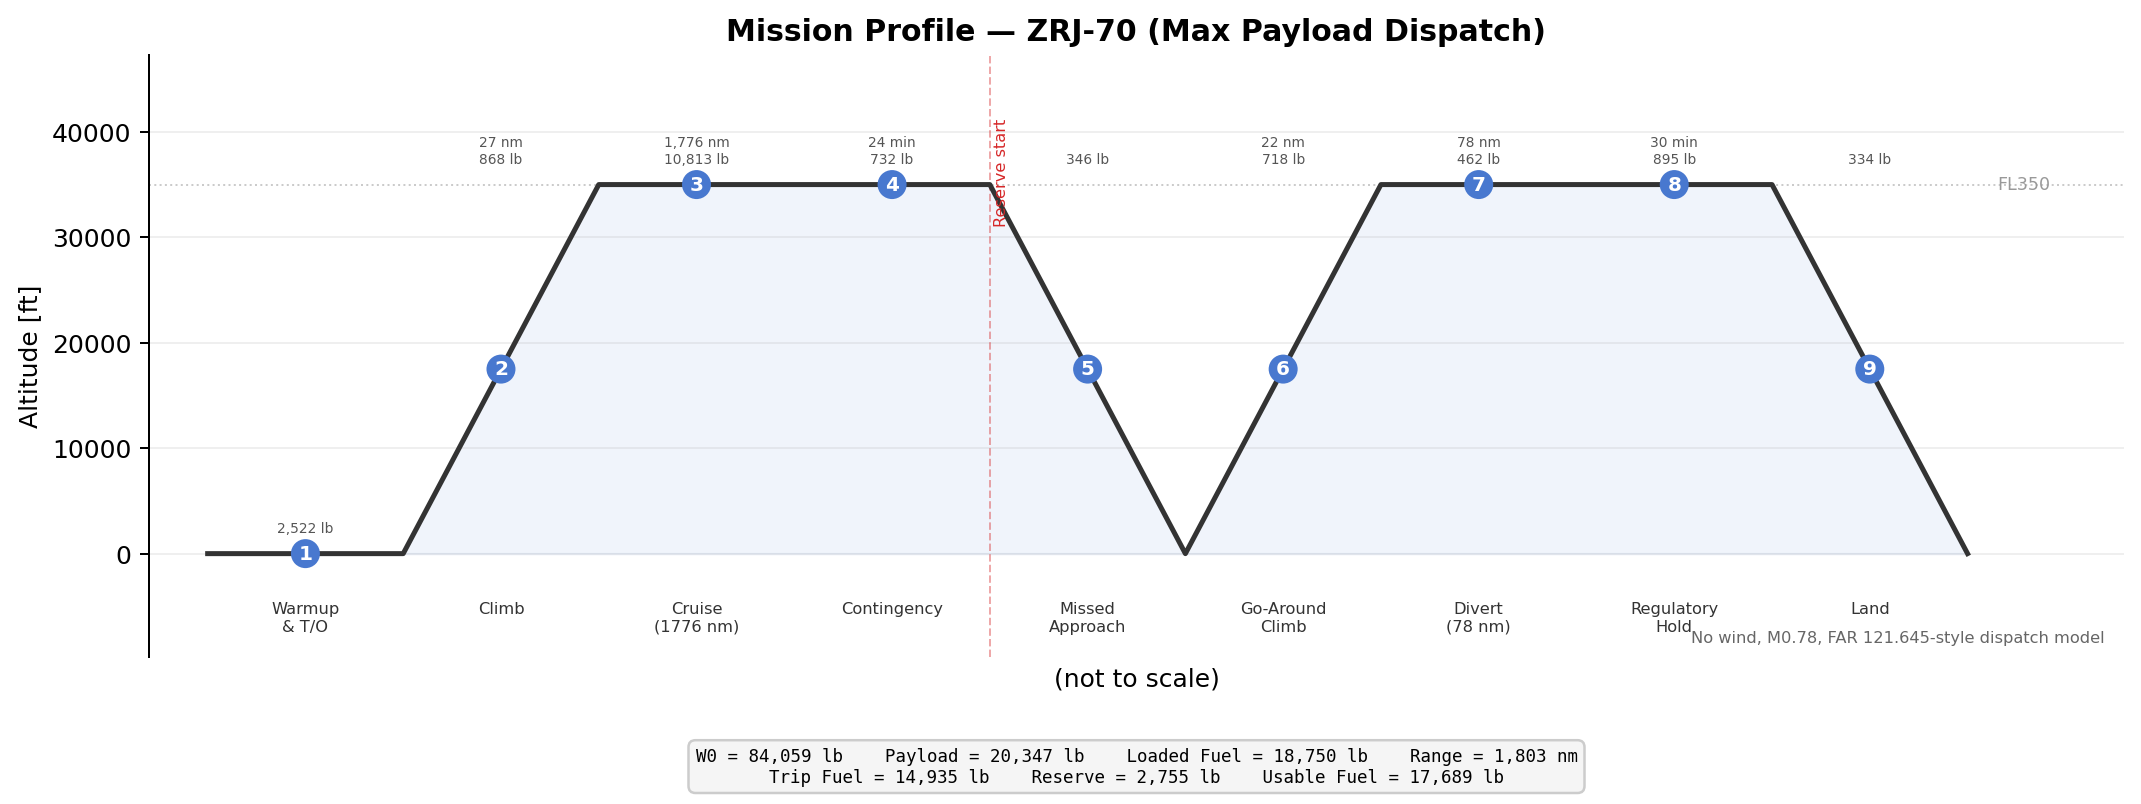
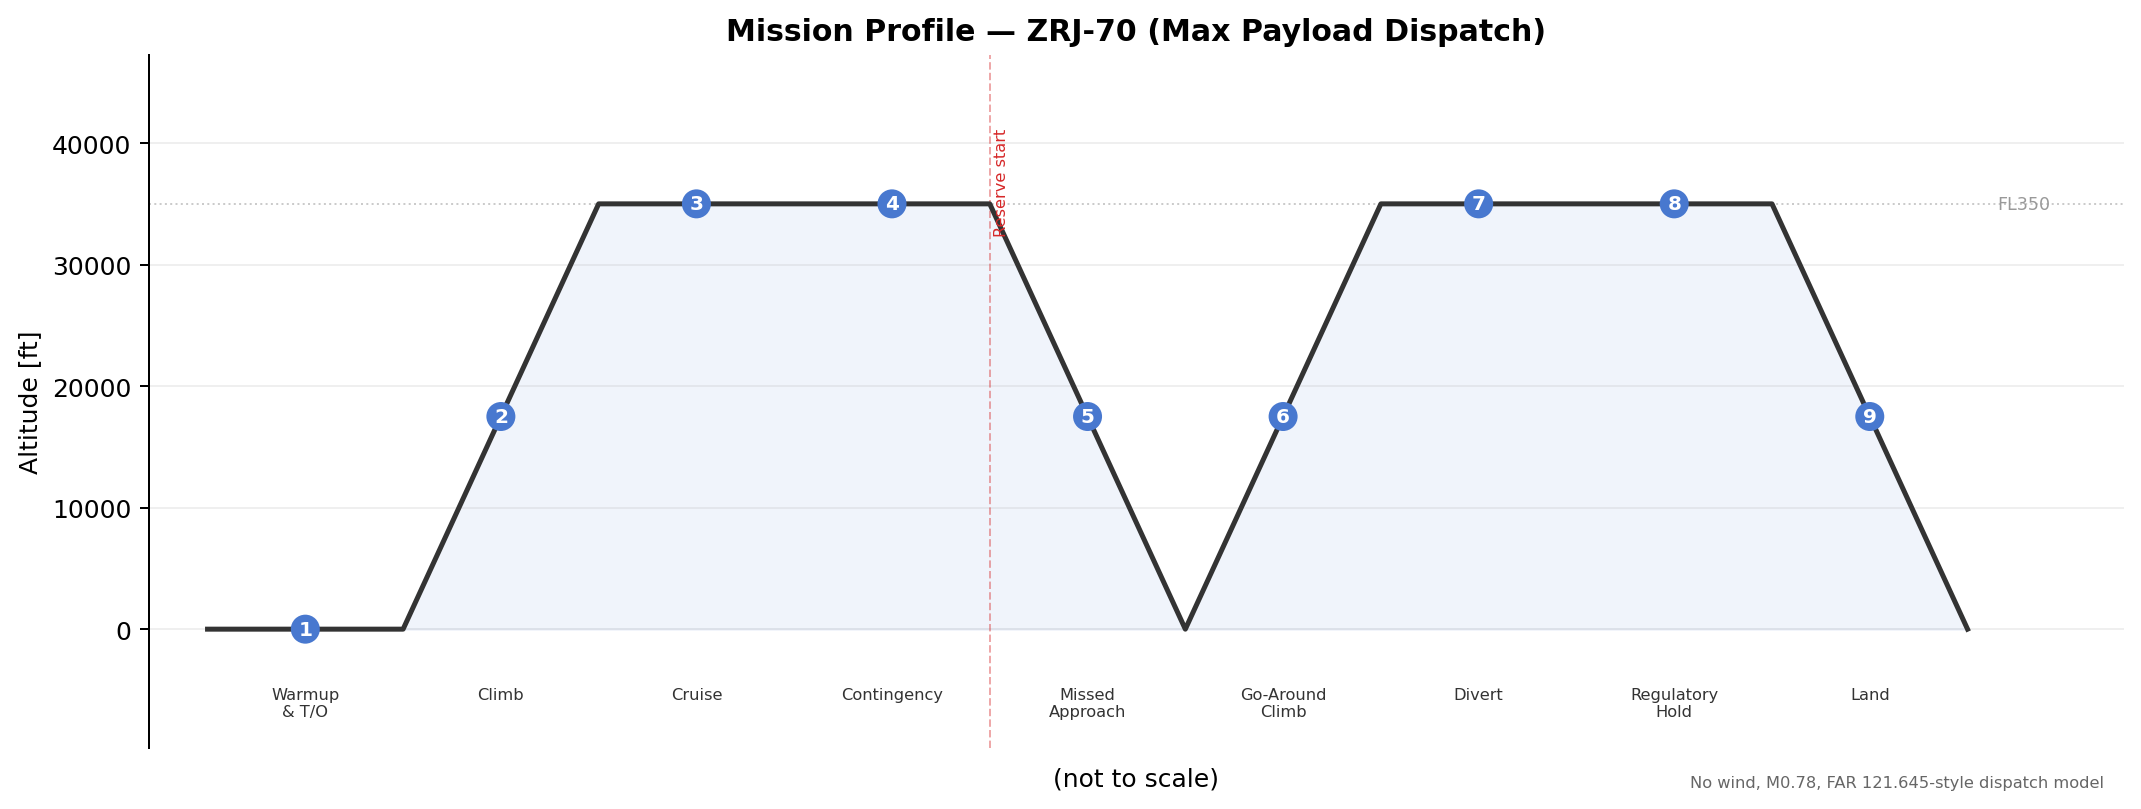
Refine mission profile chart annotations

diff --git a/scripts/generate_mission_profile.py b/scripts/generate_mission_profile.py
@@ -4,7 +4,9 @@ from __future__ import annotations
 import argparse
 import math
 import os
+import re
 from dataclasses import dataclass
+from functools import lru_cache
 from pathlib import Path
 
 os.environ.setdefault("MPLCONFIGDIR", "/tmp/matplotlib-rj-mission-map")
@@ -44,8 +46,29 @@ class ProfileResult:
     segments: list[Segment]
 
 
-def show_time_on_chart(seg: Segment) -> bool:
-    return seg.name.startswith("Contingency") or seg.name.startswith("Regulatory Hold")
+@dataclass(frozen=True)
+class ClimbOverride:
+    time_min: float
+    fuel_lb: float
+
+
+@lru_cache(maxsize=1)
+def load_flight_perf_climb_overrides() -> dict[str, ClimbOverride]:
+    analysis_path = Path(__file__).resolve().parents[2] / "rj-flight-performance" / "examples" / "output" / "ZRJ" / "analysis.txt"
+    if not analysis_path.exists():
+        return {}
+
+    text = analysis_path.read_text()
+    pattern = re.compile(
+        r"Aircraft\s+:\s+(ZRJ70|ZRJ100).*?"
+        r"Total time to climb\s+:\s+([0-9.]+)\s+min.*?"
+        r"Est\. fuel to climb\s+:\s+([0-9,]+)\s+lb",
+        re.DOTALL,
+    )
+    overrides: dict[str, ClimbOverride] = {}
+    for name, time_min, fuel_lb in pattern.findall(text):
+        overrides[name] = ClimbOverride(time_min=float(time_min), fuel_lb=float(fuel_lb.replace(",", "")))
+    return overrides
 
 
 def compute_cruise_segment(
@@ -124,6 +147,14 @@ def compute_climb_segment(
     name: str,
 ) -> Segment:
     fuel, dist, time_sec, w_end = model.compute_climb(ac, w_start)
+    if name == "Climb to FL350":
+        override = load_flight_perf_climb_overrides().get(ac.name)
+        if override is not None and fuel > 0:
+            fuel_scale = override.fuel_lb / fuel
+            fuel = override.fuel_lb
+            time_sec = override.time_min * 60.0
+            w_end = w_start - fuel
+            dist *= fuel_scale
     return Segment(
         name=name,
         w_start=w_start,
@@ -303,61 +334,47 @@ def plot_profile(result: ProfileResult, ac: model.AircraftConfig, output_path: P
         x_mid = (x_points[idx] + x_points[idx + 1]) / 2.0
         label = short_labels.get(seg.name, seg.name)
         if seg.name.startswith("Cruise to Destination"):
-            label = f"Cruise\n({seg.distance_nm:.0f} nm)"
+            label = "Cruise"
         elif seg.name.startswith("Divert to Alternate"):
-            label = f"Divert\n({seg.distance_nm:.0f} nm)"
+            label = "Divert"
         elif seg.name.startswith("Contingency"):
             label = "Contingency"
 
-        ax.text(x_mid, -cruise_alt * 0.13, label, ha="center", va="top", fontsize=6.5, color="#333333")
-
-    for idx, seg in enumerate(segs):
-        x_mid = (x_points[idx] + x_points[idx + 1]) / 2.0
-        a_top = max(alt_points[idx], alt_points[idx + 1])
-        info = []
-        if seg.distance_nm > 0:
-            info.append(f"{seg.distance_nm:,.0f} nm")
-        if show_time_on_chart(seg) and seg.time_min > 0:
-            info.append(f"{seg.time_min:,.0f} min")
-        info.append(f"{seg.fuel_burned:,.0f} lb")
         ax.text(
             x_mid,
-            a_top + cruise_alt * 0.05,
-            "\n".join(info),
+            -cruise_alt * 0.135,
+            label,
             ha="center",
-            va="bottom",
-            fontsize=5.5,
-            color="#555555",
-            linespacing=1.25,
+            va="top",
+            fontsize=6.5,
+            color="#333333",
         )
-
-    summary = (
-        f"W0 = {result.w0:,.0f} lb    "
-        f"Payload = {result.payload_lb:,.0f} lb    "
-        f"Loaded Fuel = {result.loaded_fuel_lb:,.0f} lb    "
-        f"Range = {result.total_range_nm:,.0f} nm"
-    )
-    footer = (
-        f"Trip Fuel = {result.trip_fuel_lb:,.0f} lb    "
-        f"Reserve = {result.reserve_fuel_lb:,.0f} lb    "
-        f"Usable Fuel = {result.usable_fuel_lb:,.0f} lb"
-    )
-    ax.text(
-        0.5,
-        -0.15,
-        f"{summary}\n{footer}",
-        transform=ax.transAxes,
-        fontsize=7,
-        va="top",
-        ha="center",
-        family="monospace",
-        bbox={"boxstyle": "round,pad=0.4", "fc": "#f5f5f5", "ec": "#cccccc"},
-    )
 
     ax.axhline(cruise_alt, color="#999999", linestyle=":", linewidth=0.8, alpha=0.5)
     ax.text(x_points[-1] + 0.15, cruise_alt, f"FL{int(cruise_alt / 100)}", fontsize=7, va="center", color="#999999")
     ax.axvline(4.0, color="#d62728", linestyle="--", linewidth=0.8, alpha=0.4)
-    ax.text(4.02, cruise_alt * 1.18, "Reserve start", fontsize=6.5, color="#d62728", rotation=90, va="top")
+    ax.text(
+        4.02,
+        cruise_alt * 1.18,
+        "Reserve start",
+        fontsize=6.5,
+        color="#d62728",
+        rotation=90,
+        va="top",
+    )
+
+    wind_label = "No wind" if abs(wind_kts) < 1e-9 else f"Wind {wind_kts:+.0f} kt"
+    ax.text(
+        0.99,
+        -0.06,
+        f"{wind_label}, M{ac.cruise_mach:.2f}, FAR 121.645-style dispatch model",
+        transform=ax.transAxes,
+        ha="right",
+        va="bottom",
+        fontsize=6.5,
+        color="#666666",
+        clip_on=False,
+    )
 
     ax.set_xlim(-0.3, x_points[-1] + 0.8)
     ax.set_ylim(-cruise_alt * 0.28, cruise_alt * 1.35)
@@ -369,18 +386,6 @@ def plot_profile(result: ProfileResult, ac: model.AircraftConfig, output_path: P
     ax.spines["top"].set_visible(False)
     ax.spines["right"].set_visible(False)
     ax.spines["bottom"].set_visible(False)
-
-    wind_label = "No wind" if abs(wind_kts) < 1e-9 else f"Wind {wind_kts:+.0f} kt"
-    ax.text(
-        0.99,
-        0.02,
-        f"{wind_label}, M{ac.cruise_mach:.2f}, FAR 121.645-style dispatch model",
-        transform=ax.transAxes,
-        ha="right",
-        va="bottom",
-        fontsize=6.5,
-        color="#666666",
-    )
 
     output_path.parent.mkdir(parents=True, exist_ok=True)
     fig.tight_layout()
